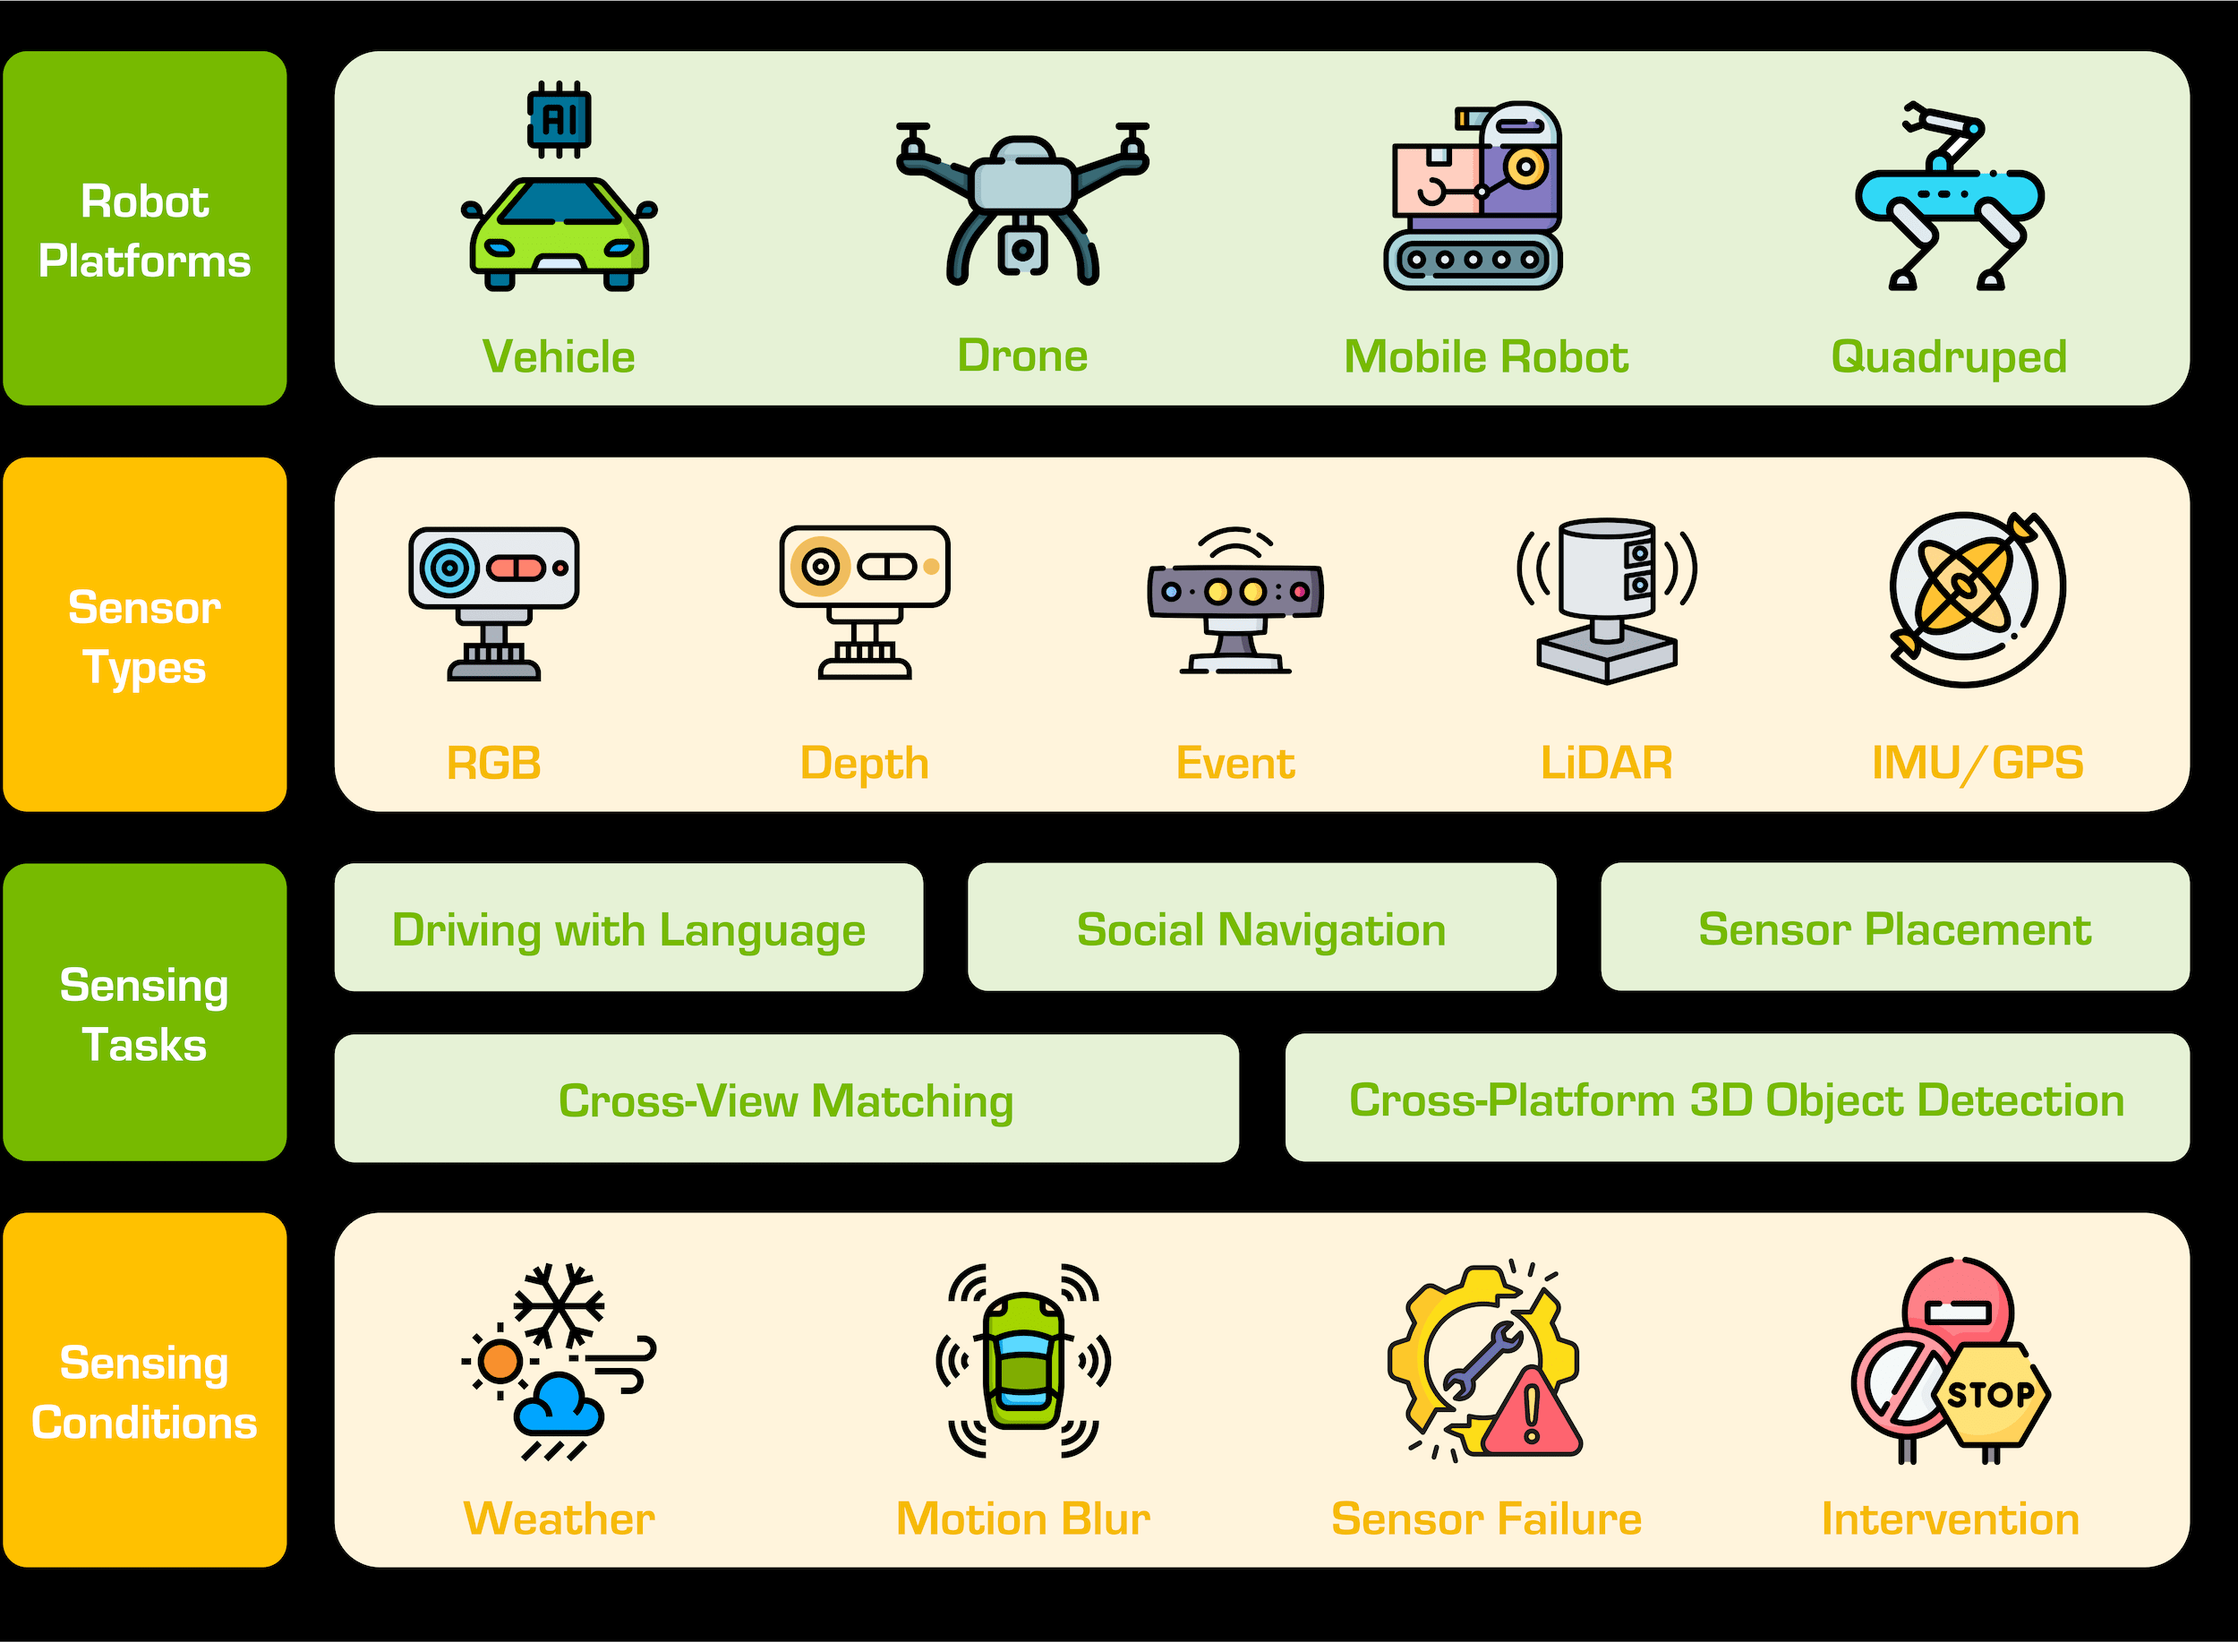
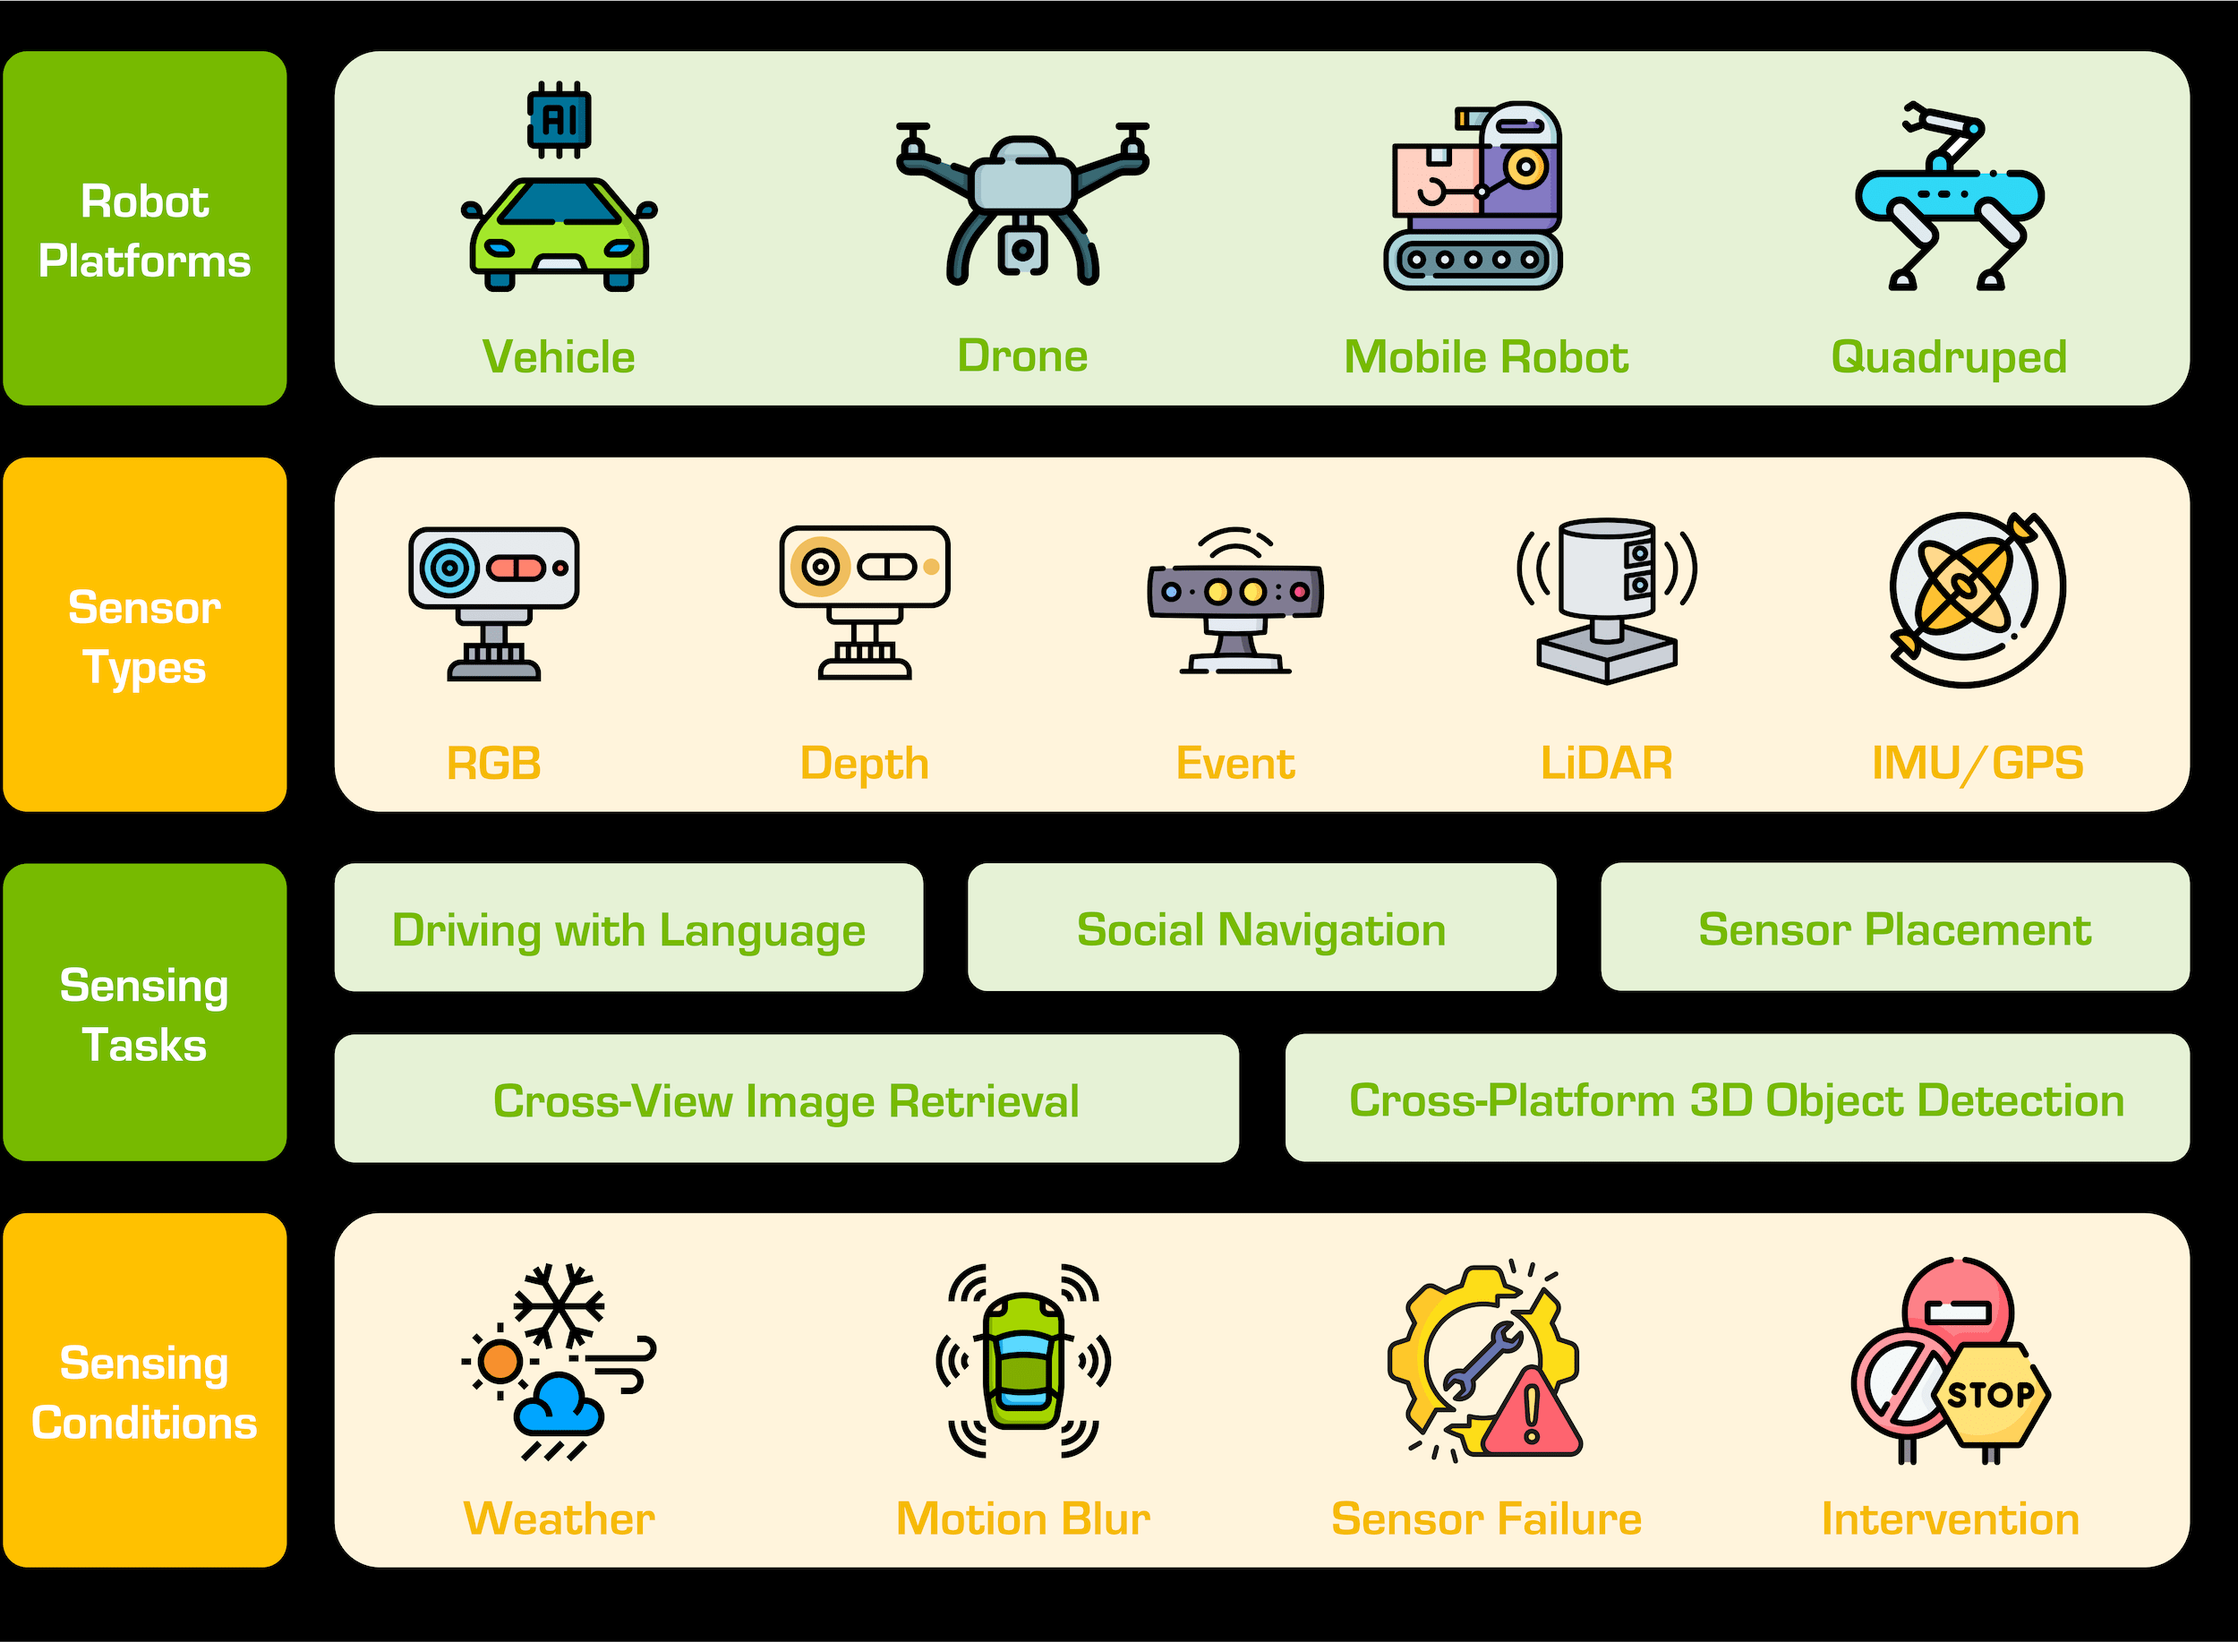
Add files via upload

Changed region(s): [[0.2184, 0.6527, 0.4992, 0.6838]]

diff --git a/index.html b/index.html
@@ -740,16 +740,16 @@
 
             <br/><hr/><br/>
 
-            <h2 class="text-white" id="tracks">Track <a style="color: #76b900;">#4</a>: Cross-View Matching</h2>
+            <h2 class="text-white" id="tracks">Track <a style="color: #76b900;">#4</a>: Cross-View Image Retrieval</h2>
 
             <p><img src="logo_track4.png" align="right" width="28%" hspace="0" vspace="0"></p>
 
             <p class="text-white-50">
-                This track aims at the development of models for robust cross-view matching, specifically for scenarios where input data is captured from drastically different viewpoints, such as aerial (drone or satellite) and ground-level images.
+                This track aims at the development of models for natural language-guided cross-view image retrieval, specifically for scenarios where input data is captured from drastically different viewpoints, such as aerial (drone or satellite) and ground-level images.
             </p>
 
             <p class="text-white-50">
-                Participants are tasked with designing models that can effectively match corresponding visual and textual elements across differing view perspectives, even under the presence of common corruptions such as blurrinesses, occlusions, or sensory noises.
+                Participants are tasked with designing models that can effectively retrieve corresponding images from large-scale cross-view image databases based on natural language text descriptions, even under the presence of common corruptions such as blurriness, occlusions, or sensory noises.
             </p>
 
             <p class="text-white-50">
@@ -794,7 +794,7 @@
             </p>
 
             <p class="text-white-50">
-                Participants are expected to develop new adaptation algorithms that can effectively adapt 3D perception tasks, specifically object detection, across robot platforms that use different sensor configurations and movement dynamics, such as autonomous vehicles, drones, and quadrupeds.
+                Participants are expected to develop new adaptation algorithms that can effectively adapt 3D perception tasks, specifically object detection, across three robot platforms that use different sensor configurations and movement dynamics.
             </p>
 
             <p class="text-white-50">
